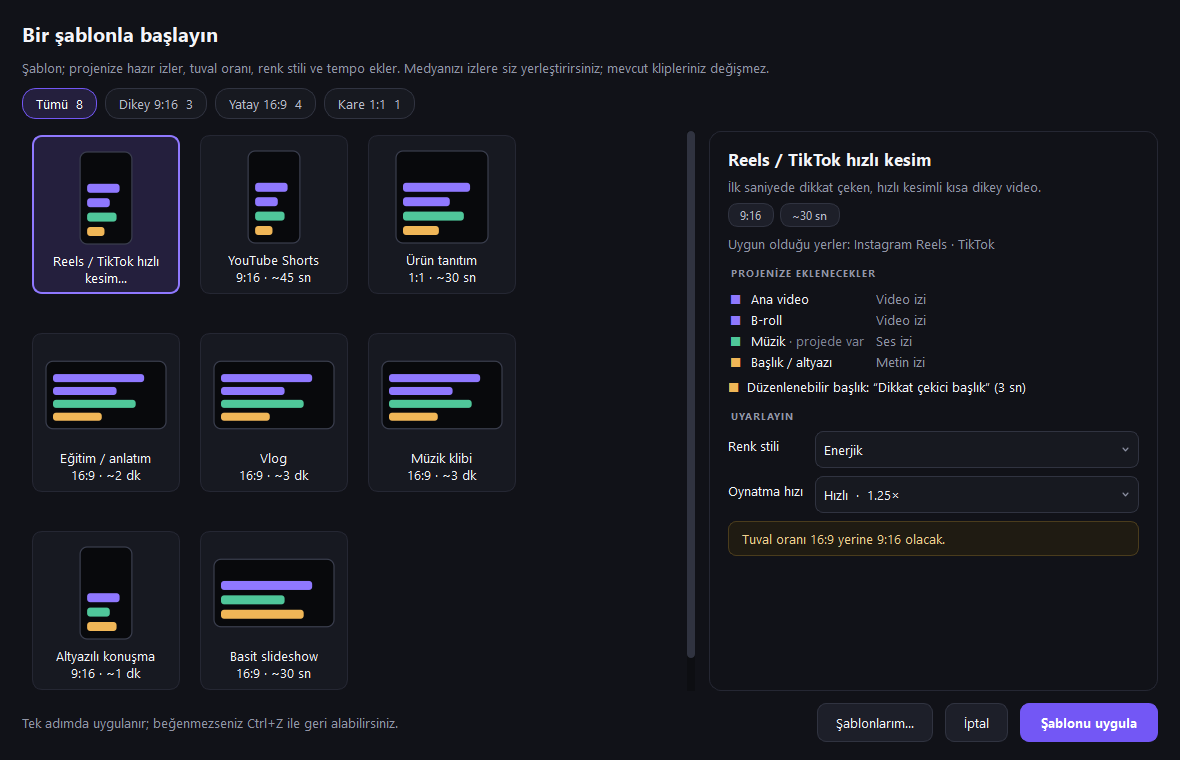
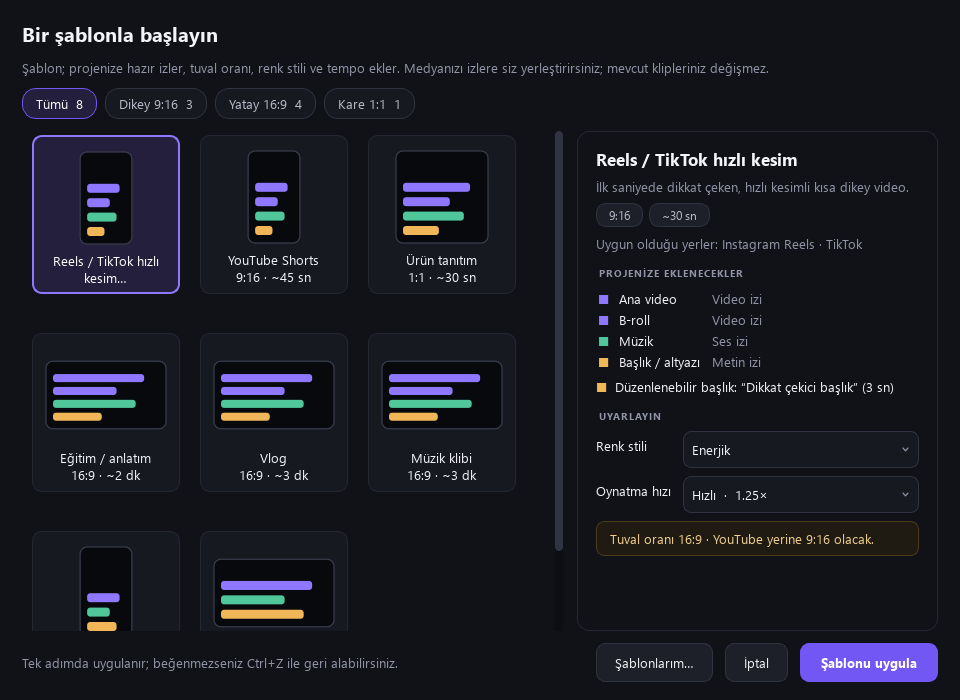
docs: refresh bilingual guides and version-free screenshots [skip ci]

diff --git a/README.md b/README.md
@@ -65,6 +65,7 @@ Talking-head videos, tutorials, vlogs and Shorts take hours of repetitive work: 
 ### Timeline and manual editing
 
 - Multi-track timeline with video, audio, text and caption tracks; clips snap to nearby edges and can be dragged between tracks.
+- **＋ Media** imports PNG, JPG, JPEG and WebP photos as durable 5-second video clips. **＋ Music** adds audio to a compatible audio track; **Clip volume** applies to both preview and export.
 - **CapCut-style trimming:** trim handles on the selected clip, trim to the playhead (**Q** / **W**), and select any range by dragging on an empty spot to delete it from every track at once.
 - Split, ripple delete, per-clip volume and **clip speed** (captions follow the new speed), framing (fit, fill, blurred background).
 - An opening **title** typed in the Edit tab becomes a 3-second text clip at the start of the video.
@@ -102,6 +103,8 @@ Talking-head videos, tutorials, vlogs and Shorts take hours of repetitive work: 
 - In-app updates that verify the installer's SHA-256 checksum and restore the previous version if anything fails.
 - Proxy files in the background for smooth playback, chunked preview rendering for long edits, HDR (PQ/HLG) sources tone-mapped to SDR.
 
+**Version 0.6.4 reliability:** fixes cover source-file protection and playback-speed timing in Shorts, cancellation during batch silence analysis, portable project snapshots, background-worker lifetime, installer rollback, and protection of edits made while an AI request is running. [Read the 0.6.4 release notes](https://github.com/anilcanolcer/akis-kurgu-ai/releases/tag/v0.6.4).
+
 ## Screenshots
 
 | Light theme | Range selection and the Edit tab |
@@ -111,8 +114,10 @@ Talking-head videos, tutorials, vlogs and Shorts take hours of repetitive work: 
 | ![Template gallery with the details of the Reels / TikTok template](docs/screenshots/templates-en.png) | ![Recording dialog with a screen source selected](docs/screenshots/record-en.png) |
 | **Split into Shorts** | **Inspiration** |
 | ![Shorts dialog splitting a 41-second video into three parts with titles](docs/screenshots/shorts-en.png) | ![Inspiration gallery with an idea, its shot list and matching template](docs/screenshots/inspiration-en.png) |
+| **Photos and music** | **Story Studio** |
+| ![Photo and music clips on the timeline](docs/screenshots/media-en.png) | ![Story Studio scene workflow](docs/screenshots/story-en.png) |
 
-*Screenshots are taken from the real application (version 0.6.3). The sample clips are colour gradients generated with FFmpeg and the speech is a Windows text-to-speech voice.*
+*Screenshots show the real application with synthetic demo media and sample story text. The version badge is hidden in documentation images; screenshots are refreshed when the illustrated interface changes.*
 
 ## Installation
 
@@ -130,11 +135,11 @@ The installer is **not digitally signed yet**, so Windows SmartScreen or your se
 
 ## Getting started
 
-1. **Add video** (or drag a file onto the window). The first clip goes onto the Video track.
+1. Use **Add video** to open a video, or **＋ Media** to select a PNG, JPG, JPEG or WebP photo. Photos become 5-second clips on the Video track. Use **＋ Music** to add music to an audio track.
 2. Use the one-click tools in the **AI Edit** tab (*Remove silences*, *Remove retakes*, *Cut filler words*…) or edit by hand: select, drag, **Split**, trim with **Q** / **W**, select a range and press **Delete**.
 3. Transcribe with local Whisper in the **AI Edit** tab, pick a caption look and add the captions to the timeline.
 4. Set aspect ratio, colour and speed in the **Edit** tab, or start from **Templates** or **Inspiration**.
-5. **Export** an MP4, several formats at once, Shorts, or an FCPXML file. Save the project as `.akis.json`.
+5. Adjust clip volume as needed; it affects both preview and export. **Export** an MP4, several formats at once, Shorts, or an FCPXML file. Save the project as `.akis.json`.
 
 ## Keyboard shortcuts
 
